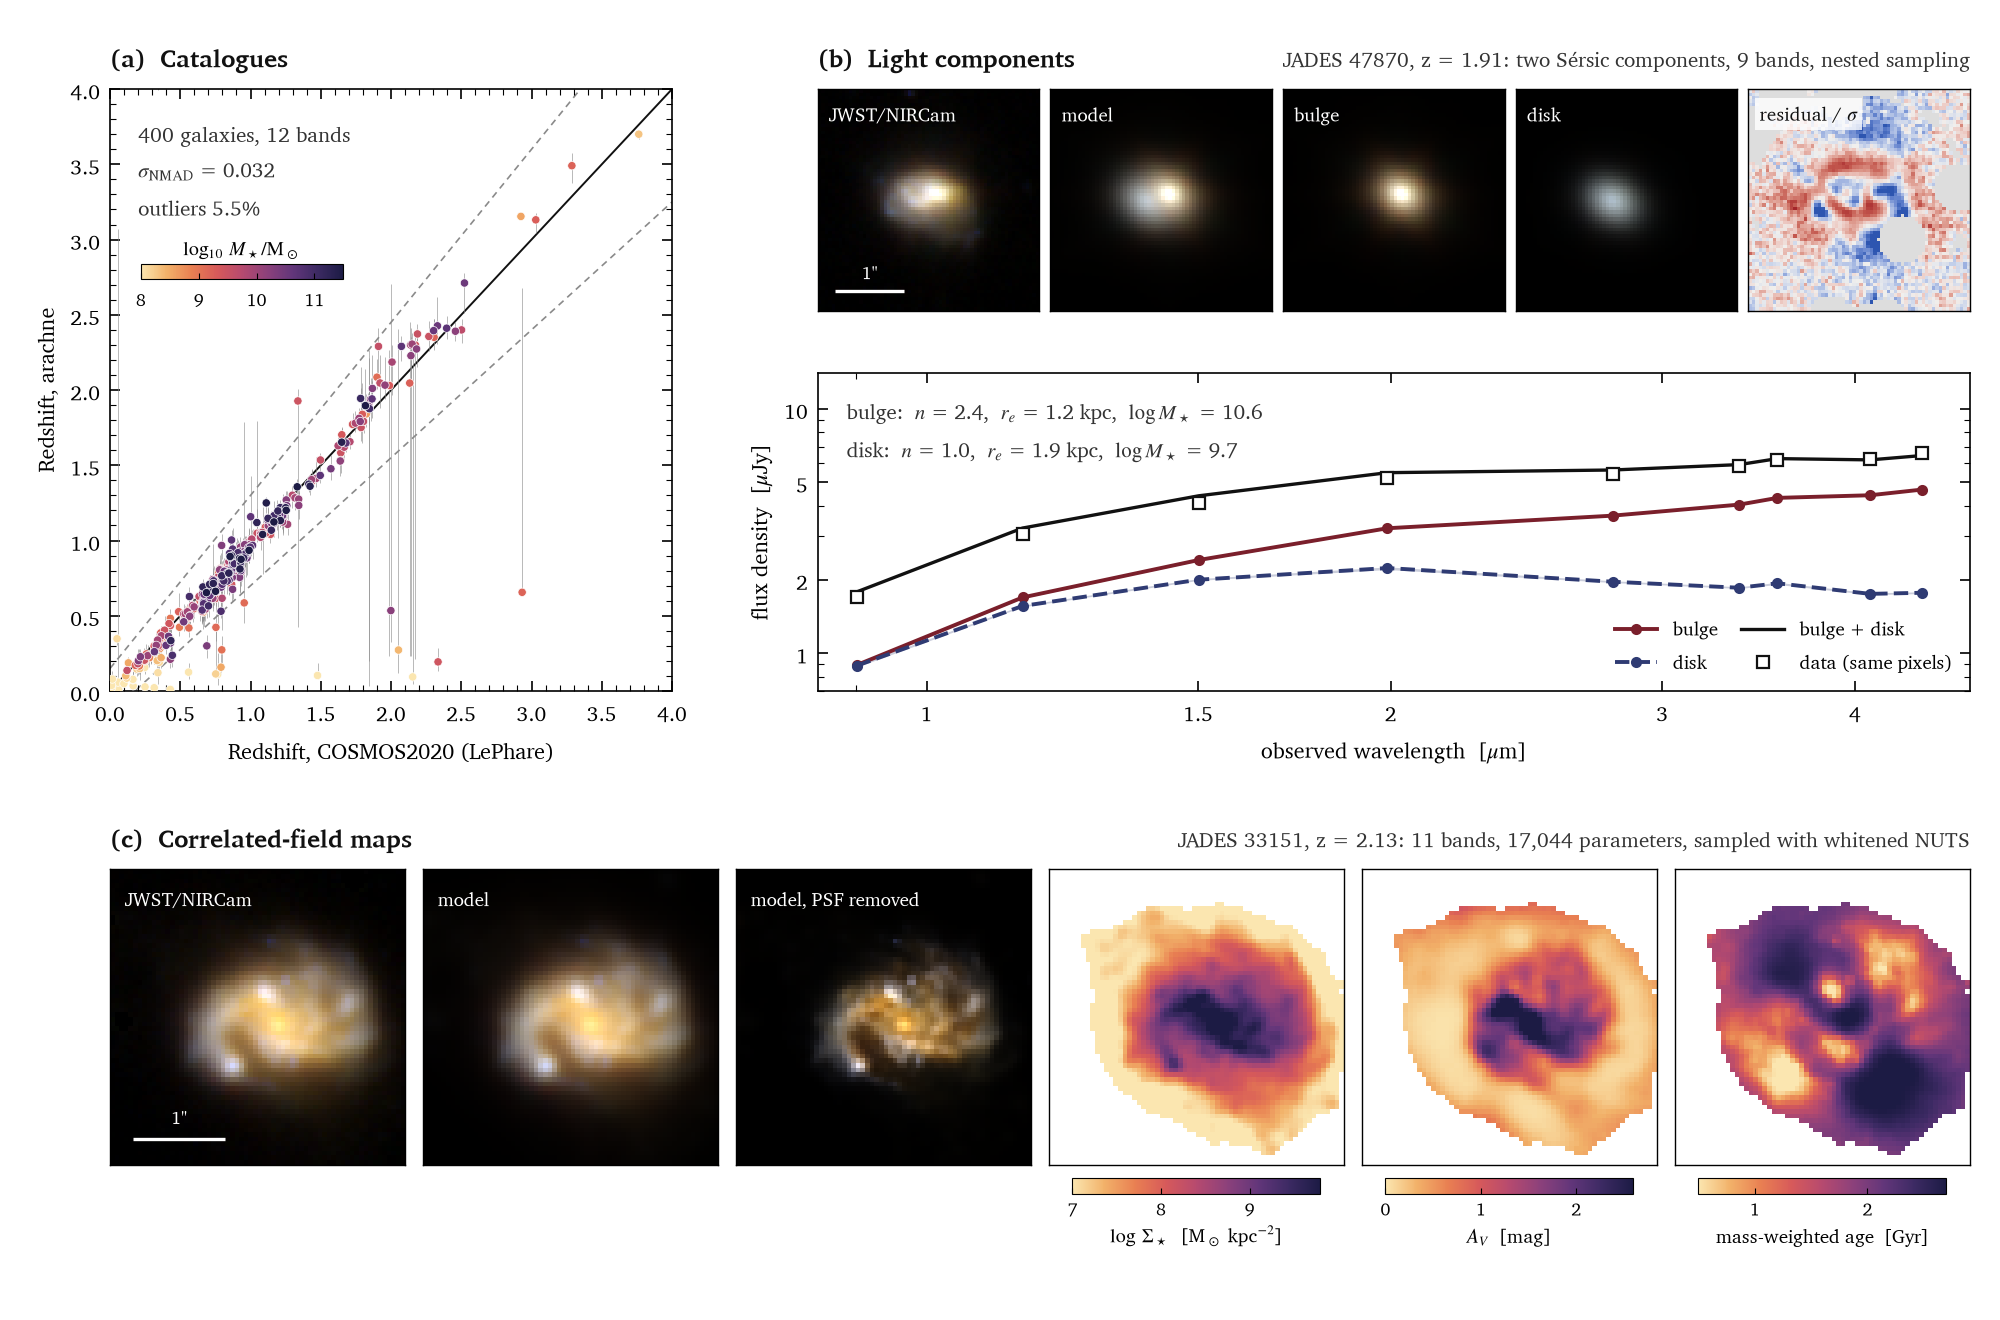
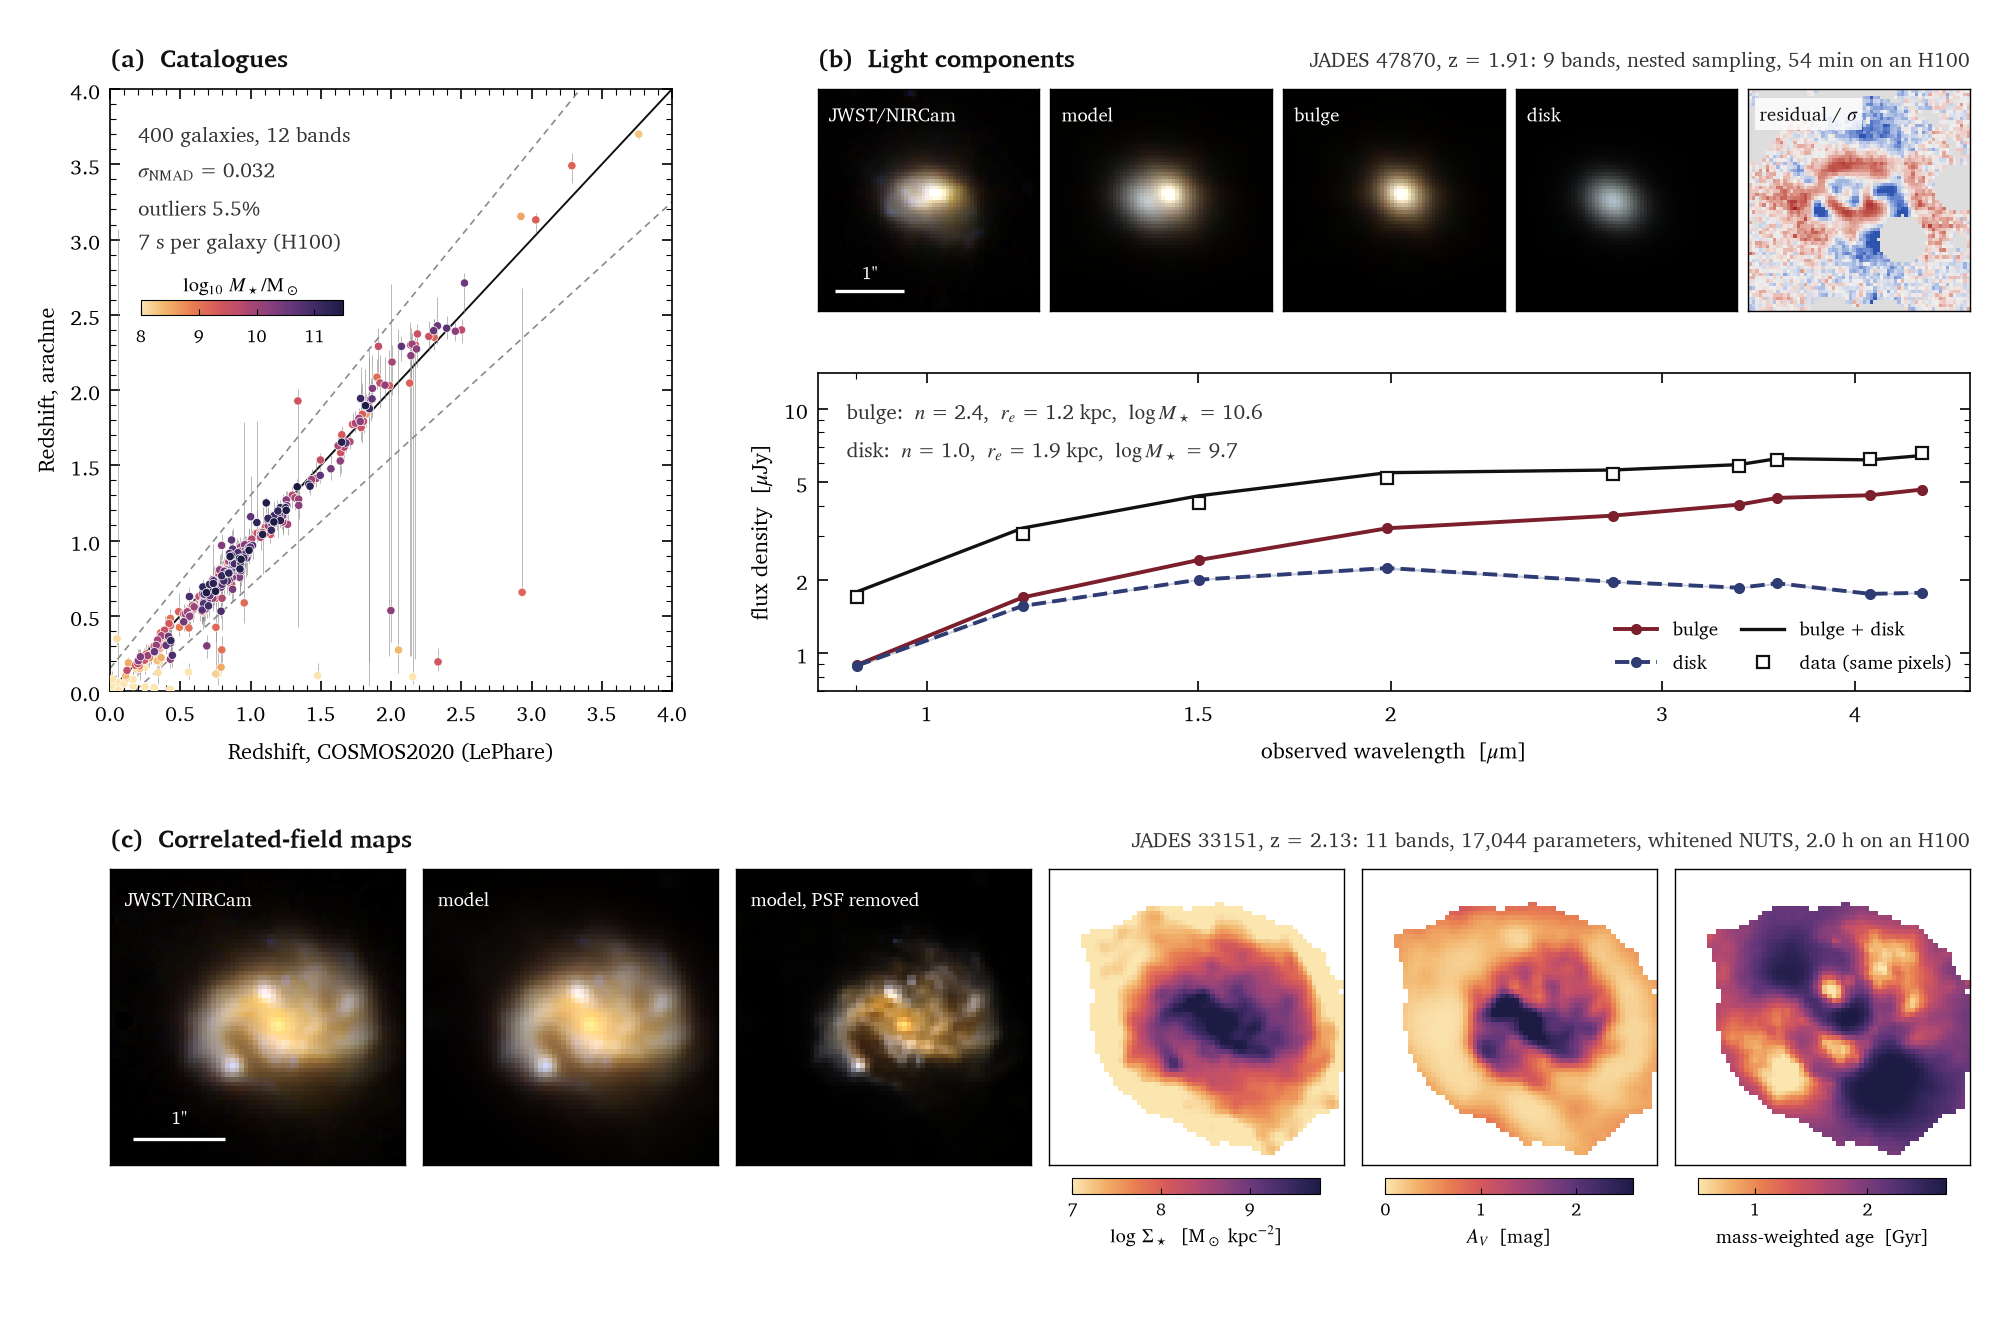
Front-page figure: show H100 run times on each panel

Changed region(s): [[0.558, 0.6212, 0.992, 0.6523], [0.651, 0.0311, 0.992, 0.0621], [0.062, 0.1553, 0.186, 0.2485]]

diff --git a/docs/figures/make_frontpage.py b/docs/figures/make_frontpage.py
@@ -44,6 +44,11 @@ INPUTS = {
     k: Path(os.environ.get(f"ARACHNE_FRONTPAGE_{k.upper()}", v)) for k, v in _DEFAULTS.items()
 }
 
+# Wall-clock times on one NVIDIA H100, from the run logs (not stored in the inputs):
+# (a) median per galaxy, nested sampling with 500 live points; (b) mode search 304 s plus
+# nested sampling 2952 s; (c) Newton mode 1003 s, Hessian 145 s, four NUTS chains 6187 s.
+TIMINGS = {"catalogue": "7 s per galaxy", "components": "54 min", "fields": "2.0 h"}
+
 # ---- house style (Tom's matplotlib style: Charter, boxed frame, printed-ink colours) ----
 INK, INK2, MUTED = "#111111", "#333333", "#8a8a8a"
 INDIGO, CELADON, OXBLOOD, SKY, MUSTARD = "#2f3b73", "#7fa08a", "#7a1f2b", "#7fb3d5", "#c9a84c"
@@ -358,7 +363,8 @@ def panel_catalogue(fig, spec):
     ax.set_xlabel("Redshift, COSMOS2020 (LePhare)")
     ax.set_ylabel("Redshift, arachne")
     ax.text(0.05, 0.95, f"{ok.sum()} galaxies, {n_bands} bands\n"
-            rf"$\sigma_{{\rm NMAD}}$ = {nmad:.3f}" f"\noutliers {100 * outliers:.1f}%",
+            rf"$\sigma_{{\rm NMAD}}$ = {nmad:.3f}" f"\noutliers {100 * outliers:.1f}%"
+            f"\n{TIMINGS['catalogue']} (H100)",
             transform=ax.transAxes, ha="left", va="top", fontsize=7.5, color=INK2,
             linespacing=1.4)  # fmt: skip
     info = {"n": int(ok.sum()), "bands": n_bands, "nmad": float(nmad), "outliers": float(outliers),
@@ -385,7 +391,7 @@ def main(output):
     fig.text(
         axes_c[-1].get_position().x1, box.y1 + 0.013,
         f"{info_c['id']}, z = {info_c['z']:.2f}: {info_c['bands']} bands, "
-        f"{info_c['n_params']:,} parameters, sampled with whitened NUTS",
+        f"{info_c['n_params']:,} parameters, whitened NUTS, {TIMINGS['fields']} on an H100",
         fontsize=7.5, ha="right", va="bottom", color=INK2,
     )  # fmt: skip
     box = axes_b[0].get_position()
@@ -393,8 +399,8 @@ def main(output):
              ha="left", va="bottom", color=INK)  # fmt: skip
     fig.text(
         axes_b[-1].get_position().x1, box.y1 + 0.013,
-        f"{info_b['id']}, z = {info_b['z']:.2f}: two S\u00e9rsic components, "
-        f"{info_b['bands']} bands, nested sampling",
+        f"{info_b['id']}, z = {info_b['z']:.2f}: "
+        f"{info_b['bands']} bands, nested sampling, {TIMINGS['components']} on an H100",
         fontsize=7.5, ha="right", va="bottom", color=INK2,
     )  # fmt: skip
     fig.canvas.draw()
@@ -404,7 +410,7 @@ def main(output):
     box_a = ax_a.get_position()
     fig.text(box_a.x0, box.y1 + 0.012, "(a)  Catalogues", fontweight="bold", fontsize=9,
              ha="left", va="bottom", color=INK)  # fmt: skip
-    cax = fig.add_axes([box_a.x0 + 0.055 * box_a.width, box_a.y0 + 0.685 * box_a.height,
+    cax = fig.add_axes([box_a.x0 + 0.055 * box_a.width, box_a.y0 + 0.625 * box_a.height,
                         0.36 * box_a.width, 0.011])  # fmt: skip
     cb = fig.colorbar(sc_a, cax=cax, orientation="horizontal", ticks=[8, 9, 10, 11])
     cb.outline.set_linewidth(0.4)
